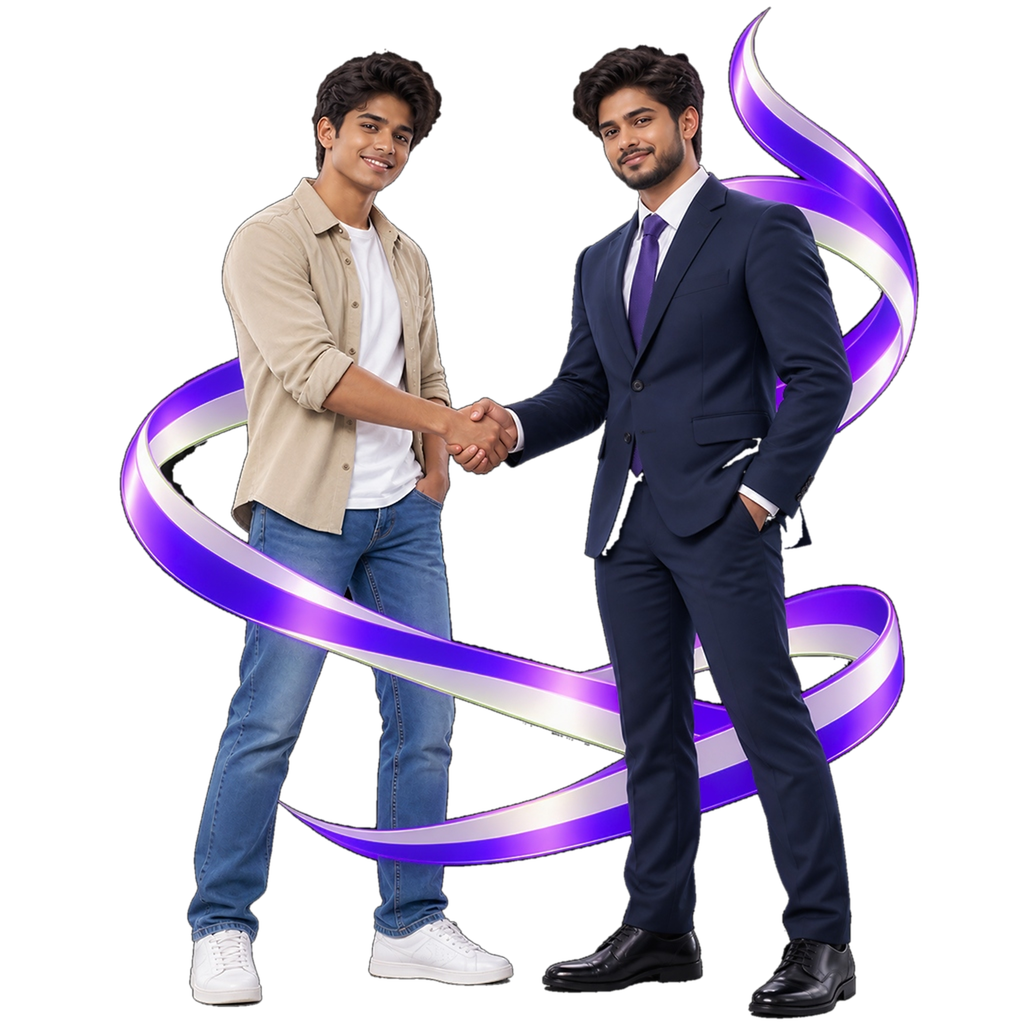
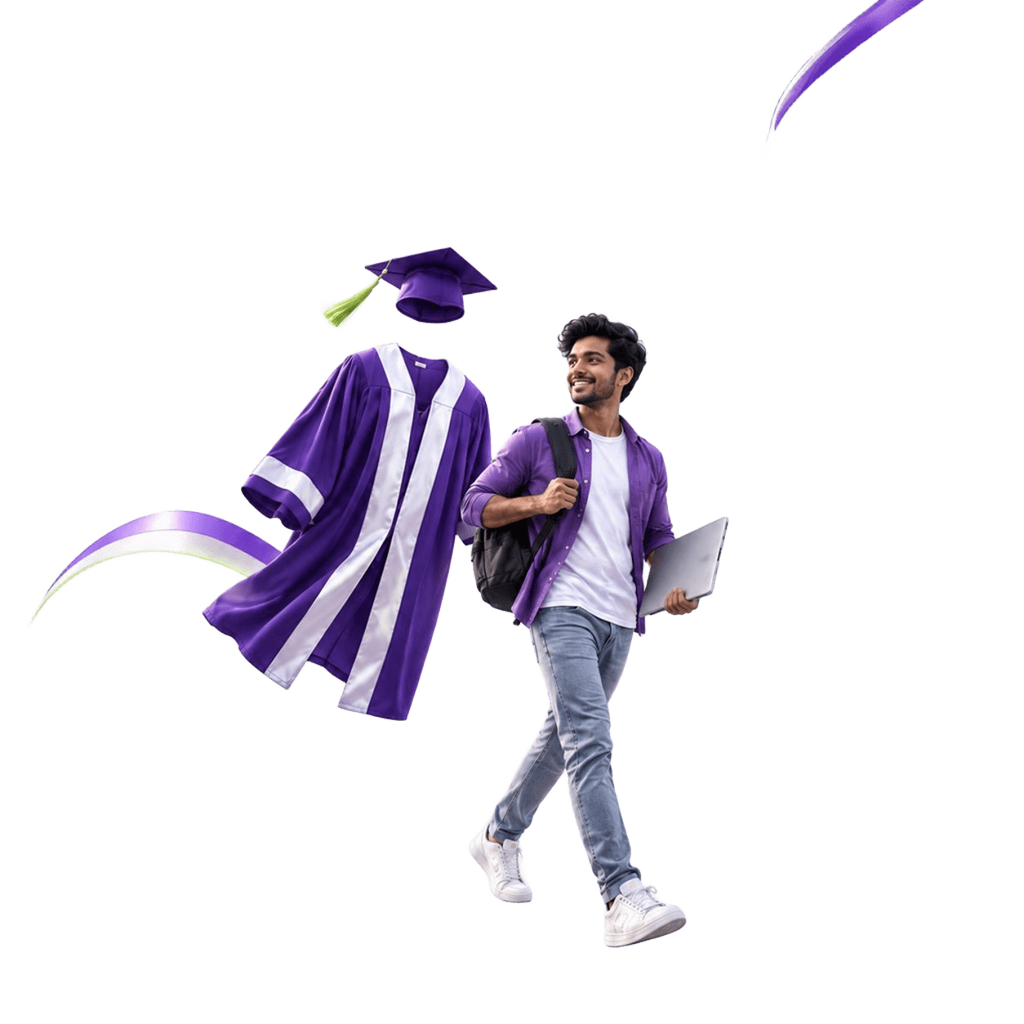
Update first hero image and WhatsApp button number

diff --git a/src/components/layout/WhatsAppButton.tsx b/src/components/layout/WhatsAppButton.tsx
@@ -1,8 +1,8 @@
 // Floating WhatsApp chat button, rendered once from the root layout.
-// Set NEXT_PUBLIC_WHATSAPP_NUMBER (international format, digits only, e.g. 94711993331)
-// to point it at the WhatsApp bot; defaults to the college's main line.
+// Set NEXT_PUBLIC_WHATSAPP_NUMBER (international format, digits only)
+// to override the WhatsApp bot number.
 
-const WHATSAPP_NUMBER = (process.env.NEXT_PUBLIC_WHATSAPP_NUMBER || "94711993331").replace(/\D/g, "");
+const WHATSAPP_NUMBER = (process.env.NEXT_PUBLIC_WHATSAPP_NUMBER || "94743762393").replace(/\D/g, "");
 const WHATSAPP_MESSAGE = process.env.NEXT_PUBLIC_WHATSAPP_MESSAGE || "Hi Inspire College! I'd like to know more about your programmes.";
 
 export function WhatsAppButton() {
